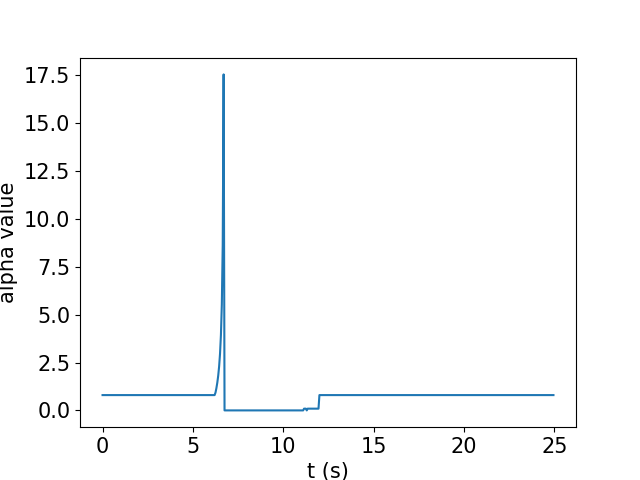
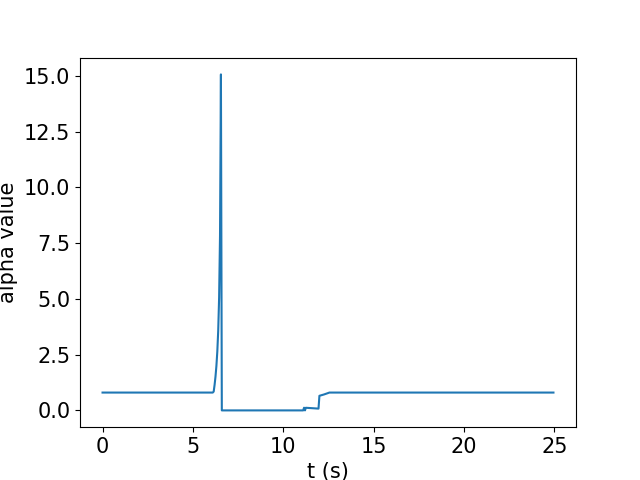
Corrected Alpha Version 2

diff --git a/tracking_reference.py b/tracking_reference.py
@@ -140,7 +140,7 @@ with writer.saving(fig, movie_name, 100):
 
         if disturbance:
             if (t >= 6 and t<=12) :
-                u_d.value = np.array([0.0,1.8]).reshape(2,1)
+                u_d.value = np.array([0.0,2.0]).reshape(2,1)
             else:
                 u_d.value = np.zeros((2,1))
 
@@ -171,17 +171,29 @@ with writer.saving(fig, movie_name, 100):
         u_ref_list[:,i] = u1_ref.value.reshape(2,)
     
     
-        constrained_controller.solve(solver=cp.GUROBI, reoptimize=True)
-        
-        if constrained_controller.status != "optimal":
+        try: 
+            constrained_controller.solve(solver=cp.GUROBI, reoptimize=True)
+            if  constrained_controller.status!="optimal":
+                robot.A1_hard[0,:] = np.zeros((1,2))
+                robot.b1_hard[0] = 0
+                A2_hard.value = robot.A1_hard
+                b2_hard.value = robot.b1_hard
+                A2_soft.value = robot.A1_soft
+                b2_soft.value = robot.b1_soft
+
+                u2_ref.value = u1_ref.value
+                relaxed_controller.solve(solver=cp.GUROBI, reoptimize=True)
+                if (relaxed_controller.status!="optimal"):
+                    break
+                robot.nextU = u2.value + u_d.value
+
+            else:
+                robot.nextU = u1.value + u_d.value
+
+        except:
+            print("here")
             robot.A1_hard[0,:] = np.zeros((1,2))
             robot.b1_hard[0] = 0
-            """
-            robot.A1_hard[1,:] = np.zeros((1,2))
-            robot.b1_hard[1] = 0
-            """
-            print(t)
-
             A2_hard.value = robot.A1_hard
             b2_hard.value = robot.b1_hard
             A2_soft.value = robot.A1_soft
@@ -189,10 +201,9 @@ with writer.saving(fig, movie_name, 100):
 
             u2_ref.value = u1_ref.value
             relaxed_controller.solve(solver=cp.GUROBI, reoptimize=True)
+            if (relaxed_controller.status!="optimal"):
+                break
             robot.nextU = u2.value + u_d.value
-        else:
-            robot.nextU = u1.value + u_d.value
-
         u_list[:,i] = robot.nextU.reshape(2,)
         robot.step(robot.nextU)
         robot.render_plot()

diff --git a/tracking_reference_alpha_thresh.py b/tracking_reference_alpha_thresh.py
@@ -114,7 +114,7 @@ with writer.saving(fig, movie_name, 100):
 
         if disturbance:
             if (t >= 6 and t<=12) :
-                u_d.value = np.array([0.0,1.8]).reshape(2,1)
+                u_d.value = np.array([0.0,2.0]).reshape(2,1)
             else:
                 u_d.value = np.zeros((2,1))
 
@@ -168,6 +168,7 @@ with writer.saving(fig, movie_name, 100):
                 robot.nextU = u1.value + u_d.value
 
         except:
+            print("here")
             robot.A1_hard[0,:] = np.zeros((1,2))
             robot.b1_hard[0] = 0
             A2_hard.value = robot.A1_hard
